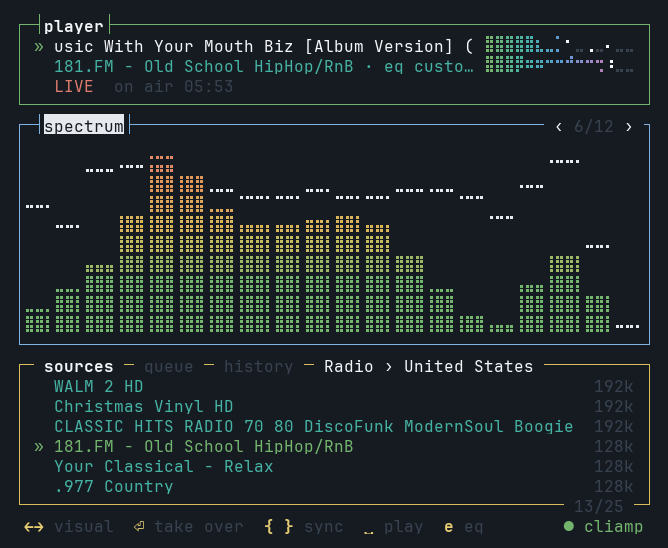
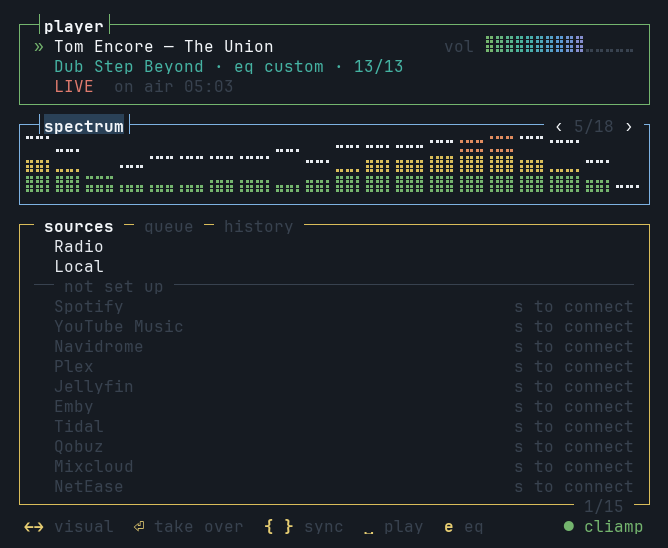
Recapture the visualizer screenshots for the new set
The grid shows every visualizer in cycle order, captured live from the
deck playing a radio stream; the stage animation features the new ones
(aurora, skyline, coral, flow, life, moire); the small-terminal shot shows
spectrum kept to the player's height. The README describes the compact
spectrum and how the layout narrows.

Captured in a private tmux server as before, but with TERM=xterm-256color
inside the pane: with tmux's own TERM the deck downgraded to 256 colours
even with COLORTERM=truecolor set.

diff --git a/README.md b/README.md
@@ -21,14 +21,16 @@ theme's colours. All audio, providers and the spectrum come from a running cliam
 1. **Player**: what's playing and from which station, live or elapsed time, the level meters and volume, and
    the play/pause/stop controls.
 2. **EQ**: ten bands with cliamp's presets. `e` opens and closes it from anywhere; it is hidden until you want it.
-3. **Visualizer**: `v` or the `‹ n/12 ›` arrows cycle the twelve effects; click it or press Enter to take over the
-   whole terminal.
+3. **Visualizer**: `v` or the `‹ n/N ›` arrows cycle the effects; click it or press Enter to take over the whole
+   terminal. Spectrum, the default, stays as short as the player and stands in for its level meter, leaving the
+   room to the list.
 4. **Sources**: cliamp's sources (radio by country, plus anything else you have set up), with **queue** and
    **history** tabs.
 5. **Status line**: the keys for whichever panel has focus (Tab moves focus), and whether cliamp is connected.
 
 A wide terminal puts the visualizer beside the other panels (above). A narrower or taller one stacks them
-(left). Resize the terminal and the panels move to fit.
+(left). Resize the terminal and the panels move to fit; down to 30 columns every panel stays, giving up detail
+instead (the tabs collapse to the active one, long titles scroll).
 
 </td>
 </tr>
@@ -36,13 +38,13 @@ A wide terminal puts the visualizer beside the other panels (above). A narrower 
 
 ## Visualizers
 
-![Six of the visualizers reacting to a radio stream, full screen](docs/screenshots/stage.gif)
+![Aurora, skyline, coral, flow, life and moire reacting to a radio stream, full screen](docs/screenshots/stage.gif)
 
 Over fifteen visualizers, all reacting to the music and all painted from your theme — plasma, fire, metaballs,
 ridges, spectrum, timescope, vortex, water, synaesthesia, scope, fountain, aurora, skyline, coral, flow, life, moire
 and braille:
 
-![Twelve of the visualizers in a grid, including the since-removed tunnel](docs/screenshots/effects.png)
+![Every visualizer in a grid, in the order v cycles them](docs/screenshots/effects.png)
 
 ## Sources and themes
 
@@ -53,8 +55,8 @@ and a visualizer alongside:
 
 | | |
 |---|---|
-| ![Slate Light theme with the EQ open and the vortex visualizer](docs/screenshots/light-eq.png) | ![A small terminal: player, spectrum and sources stacked](docs/screenshots/small.png) |
-| Light themes work too: the EQ open, vortex drawn as ink on paper. | A small terminal stacks the panels. |
+| ![Slate Light theme with the EQ open and the vortex visualizer](docs/screenshots/light-eq.png) | ![A small terminal: player, a player-height spectrum and sources stacked](docs/screenshots/small.png) |
+| Light themes work too: the EQ open, vortex drawn as ink on paper. | A small terminal stacks the panels; spectrum stays as short as the player. |
 
 Screenshots in Omarchy's Slate Dark and Slate Light themes, playing a cliamp radio stream.
 
